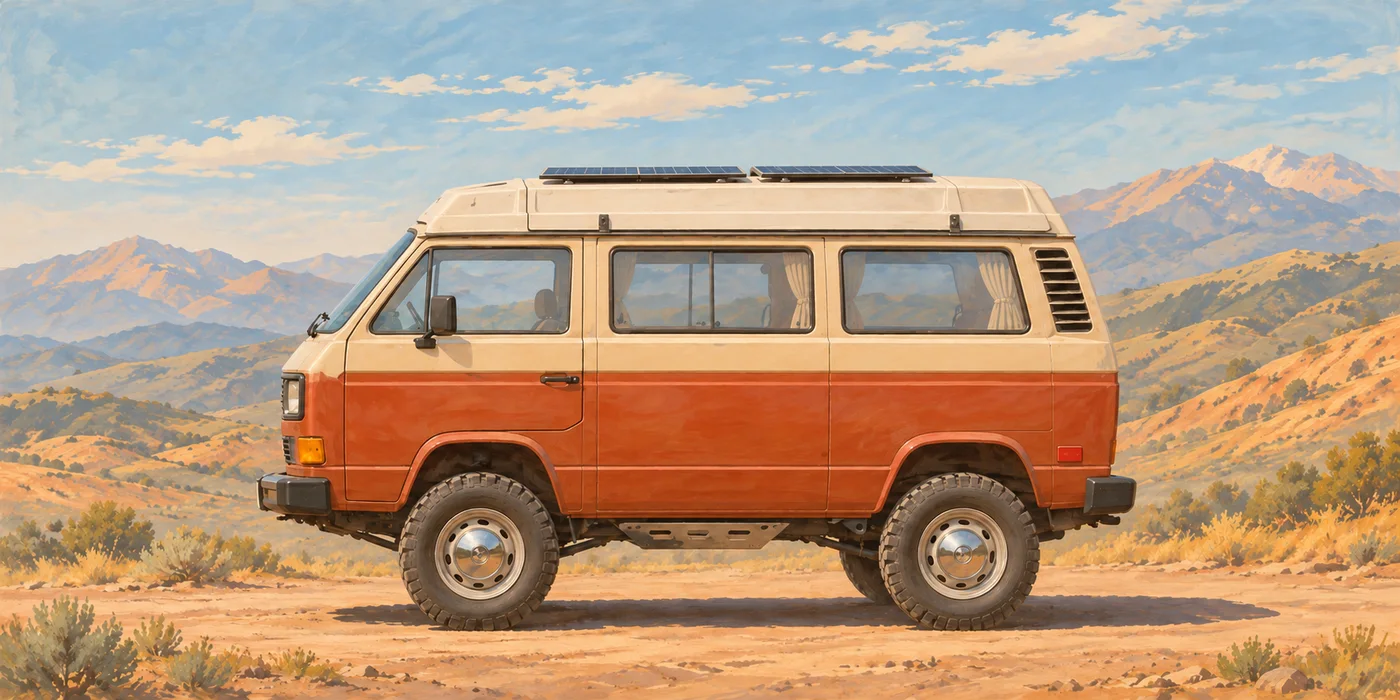
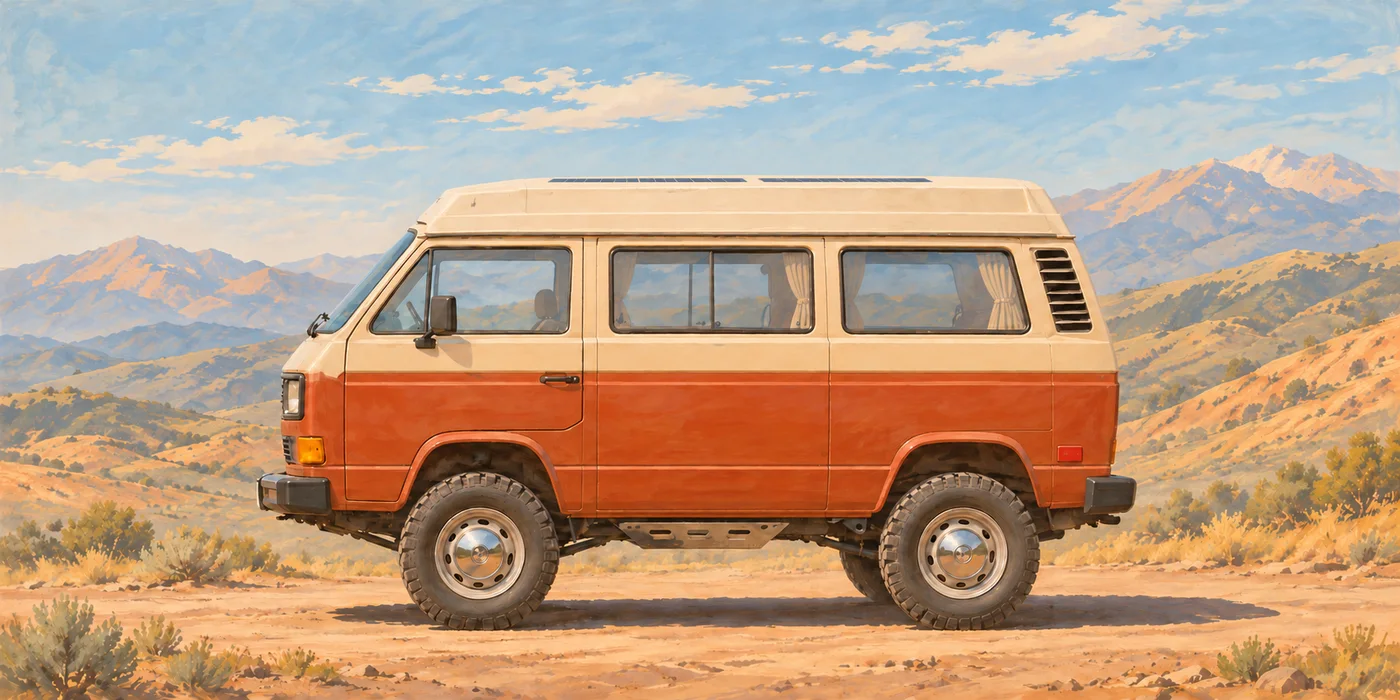
Turn Key: flush integrated solar on the roof art

diff --git a/index.html b/index.html
@@ -263,8 +263,8 @@ footer .ig{color:var(--cyan);font-weight:800;text-decoration:none;letter-spacing
       <p class="lede">Complete buses, built by us and ready to go.</p>
     </div>
     <div class="tk">
-      <article class="tkc rise"><img src="img/tk-t2-hightop.webp" alt="Painted side view of a blue and cream T2 high-top bus with solar on the roof" loading="lazy"><h3 class="d">T2 High-top</h3><p>Bay window bus with a tall high-top roof.</p></article>
-      <article class="tkc rise"><img src="img/tk-t3-2wd.webp" alt="Painted side view of a light blue T3 Westfalia with solar on the roof" loading="lazy"><h3 class="d">T3 2WD</h3><p>Vanagon Westfalia with rear-wheel drive.</p></article>
+      <article class="tkc rise"><img src="img/tk-t2-hightop.webp" alt="Painted side view of a blue and cream T2 high-top bus with flush integrated solar on the roof" loading="lazy"><h3 class="d">T2 High-top</h3><p>Bay window bus with a tall high-top roof.</p></article>
+      <article class="tkc rise"><img src="img/tk-t3-2wd.webp" alt="Painted side view of a light blue T3 Westfalia with flush integrated solar on the roof" loading="lazy"><h3 class="d">T3 2WD</h3><p>Vanagon Westfalia with rear-wheel drive.</p></article>
       <article class="tkc rise"><img src="img/tk-t3-awd.webp" alt="Painted side view of a lifted T3 all-wheel drive Westfalia on a desert track" loading="lazy"><h3 class="d">T3 AWD</h3><p>Lifted all-wheel drive Westfalia.</p></article>
     </div>
     <div class="tkspec rise">
